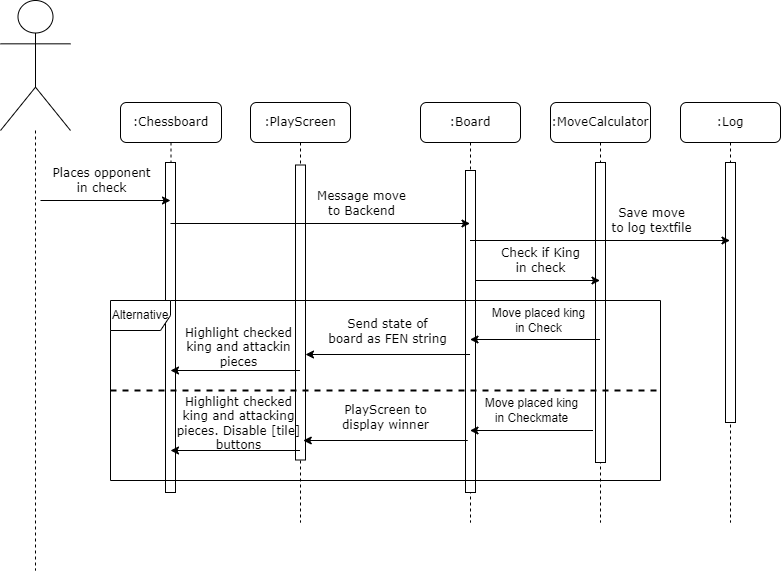
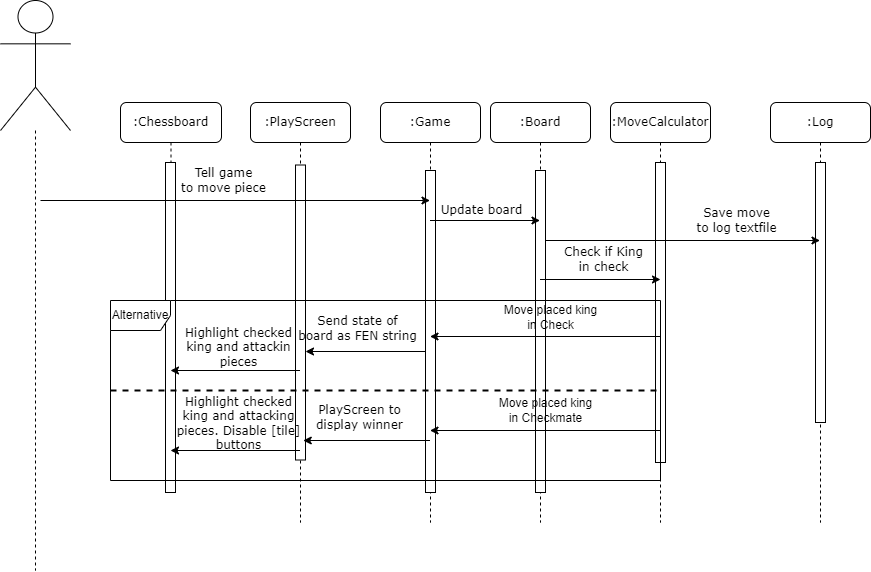
Rewrote Readme to include Java edition and members with their roles Fixed some problems with the diagrams as pointed out during review meeting on 22/03/23

diff --git a/README.md b/README.md
@@ -3,3 +3,14 @@ Group Project 9 "Chess Tutor".
 
 ## Description
 A Chess tutor programme made with aim of teaching newbies chess "as they play".
+This is a java based application made in Java 17. It uses the JavaFX libraries and was build with Maven.
+
+## Contributors
+- gwh18: Gwion Hughes (Team Leader)
+- jat92: Jack Thompson (Deputy Leader)
+- tyw1 : Tyler Lewis (QA Manager)
+- seh25: Sean Hobson (Deputy QA)
+- ckc2 : Craymon Chan
+- cts12: Ciaran Smith
+- jib16: Jim Brown
+- shr27: Shaun Royle
